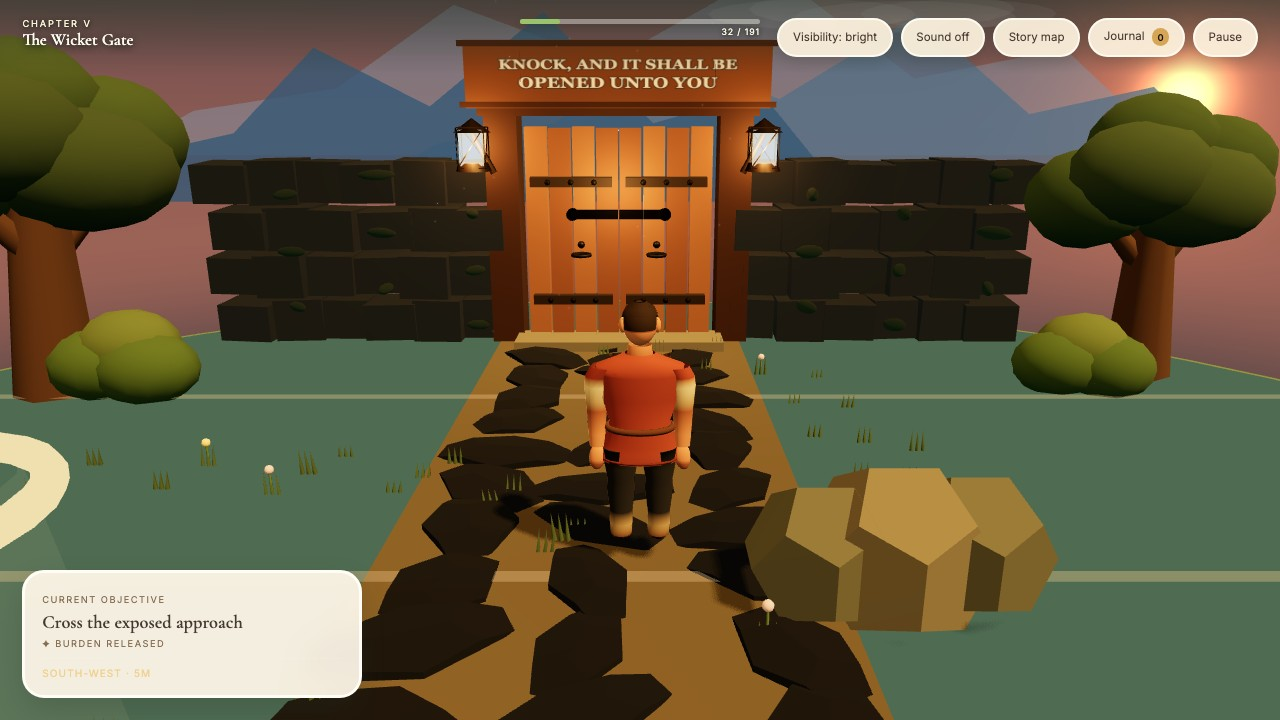
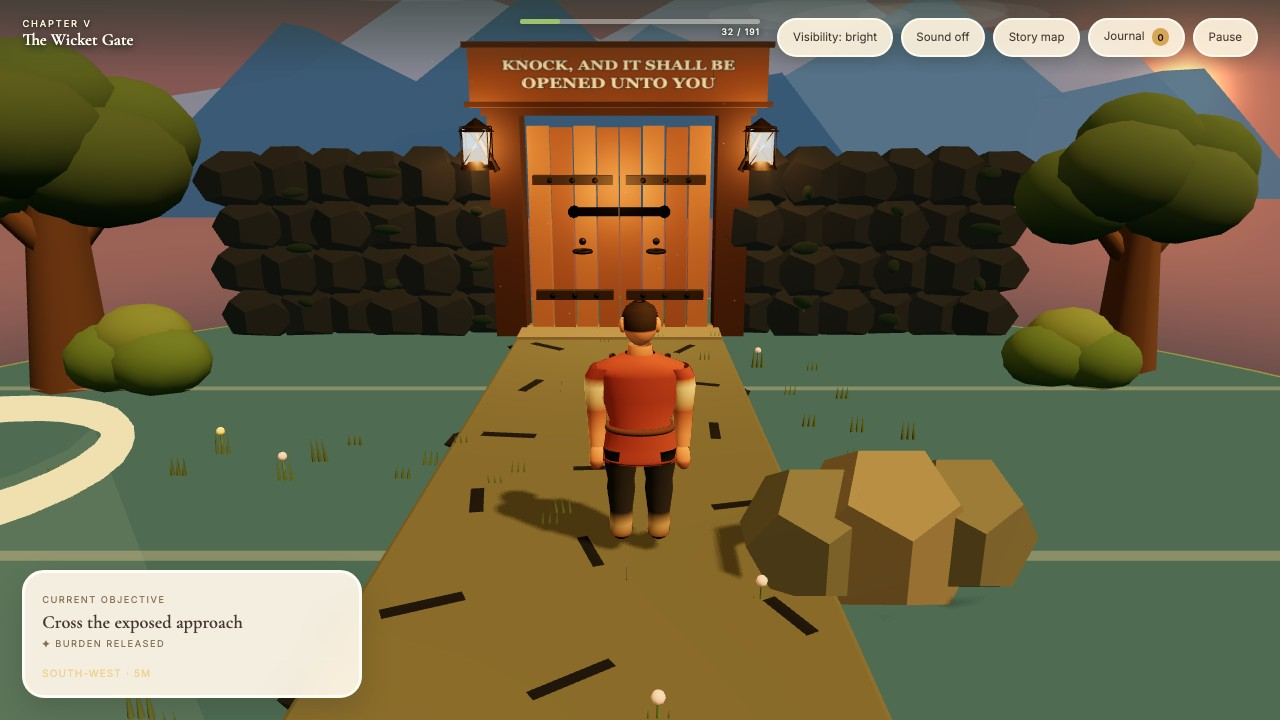
refine: deepen Wicket Gate landmark materials

diff --git a/src/game/Visuals.tsx b/src/game/Visuals.tsx
@@ -6,6 +6,7 @@ import {
   Group,
   InstancedMesh,
   Object3D,
+  Shape,
   SRGBColorSpace,
 } from "three";
 import { useGame } from "./state";
@@ -855,6 +856,15 @@ export function WicketGateLandmark({
       }),
     [],
   );
+  const gateTrailShape = useMemo(() => {
+    const shape = new Shape();
+    shape.moveTo(-1.88, -6.75);
+    shape.lineTo(-1.52, 6.75);
+    shape.lineTo(1.52, 6.75);
+    shape.lineTo(1.88, -6.75);
+    shape.closePath();
+    return shape;
+  }, []);
 
   useLayoutEffect(() => {
     const dummy = new Object3D();
@@ -907,8 +917,20 @@ export function WicketGateLandmark({
   return (
     <group position={position} name="authored-wicket-gate">
       <mesh receiveShadow position={[0, 0.036, 6.7]} rotation={[-Math.PI / 2, 0, 0]}>
-        <planeGeometry args={[3.7, 13.5]} />
-        <meshStandardMaterial color="#504b40" roughness={1} />
+        <extrudeGeometry
+          args={[
+            gateTrailShape,
+            {
+              depth: 0.08,
+              bevelEnabled: true,
+              bevelSegments: 1,
+              bevelSize: 0.035,
+              bevelThickness: 0.02,
+              curveSegments: 2,
+            },
+          ]}
+        />
+        <meshStandardMaterial color="#4c5148" roughness={0.98} />
       </mesh>
       <instancedMesh
         ref={cobbles}
@@ -931,7 +953,7 @@ export function WicketGateLandmark({
         castShadow
         receiveShadow
       >
-        <boxGeometry args={[1, 1, 1]} />
+        <dodecahedronGeometry args={[0.82, 0]} />
         <meshStandardMaterial
           vertexColors
           color="#ffffff"

diff --git a/src/game/Environments.tsx b/src/game/Environments.tsx
@@ -505,14 +505,26 @@ function GateRidge({
       renderOrder={-6}
       rotation={[0, 0, 0]}
     >
-      <shapeGeometry args={[silhouette]} />
+      <extrudeGeometry
+        args={[
+          silhouette,
+          {
+            depth: 1.8,
+            bevelEnabled: true,
+            bevelSegments: 2,
+            bevelSize: 0.08,
+            bevelThickness: 0.16,
+            curveSegments: 2,
+          },
+        ]}
+      />
       <meshBasicMaterial
         color={color}
         transparent={opacity < 1}
         opacity={opacity}
-        depthWrite={false}
         side={DoubleSide}
         fog
+        depthWrite={false}
       />
     </mesh>
   );
